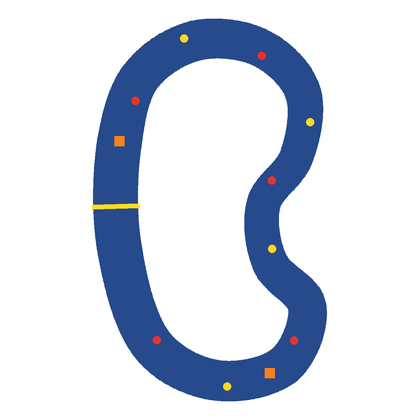
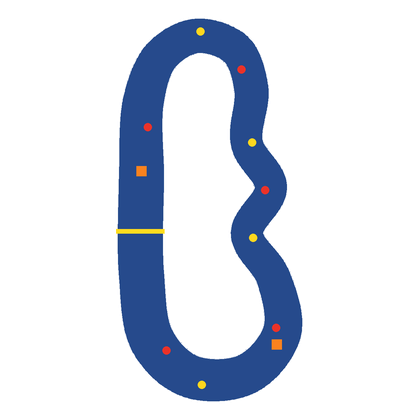
Give Ebb Reef its own outline (#2)
A long straight, a hairpin at the north end and an S-bend through the reef, so it
no longer shares Whitecap Point's bean shape. Ramp 2, buoy 7 and a hidden rock
moved apart so riders don't land from the jump onto them.

diff --git a/NOTES.md b/NOTES.md
@@ -698,11 +698,13 @@ line for tests.
 | Gull Cove | calm | 636 m | `cove_calm.tres`: the cove swell at half height (troughs to about −0.7 m). The first course, for learning the buoys. |
 | Whitecap Point | choppy open sea | 908 m | `whitecap_chop.tres`: `open_sea` with a lower main swell (0.62 m) and stronger chop (0.19, 0.13, 0.07 m). The craft hops off the chop on every straight. Long start straight with a ramp, a sweeping top, a chicane past a rock, a long bottom sweep. |
 | Lantern Harbor | night, harbour lights | 1021 m | `night_environment.tres` (dark sky with stars, a moon disc, colour ambient light, glow), a dim blue moon low in the sky so its glitter shows the swells, `harbor_swell.tres` (cove swell at 55%). Piers with lamps and lit buildings along the north shore, a breakwater with red and green entrance lights, lit buoys (`Buoy.lamp_energy`) and darker water (`OceanSurface.shader_overrides`). The course leaves through the breakwater gap and comes back round its east end. |
-| Ebb Reef | the tide goes out each lap | 852 m | `Course.lap_levels` 0, −0.9, −1.8 m: when the leader starts lap 2 and 3 the rest level falls at 0.15 m/s and the HUD calls THE TIDE IS GOING OUT. Reef flats break the surface, four rocks hidden 0.6 m under the water on lap 1 stand up to 1.2 m above it on lap 3 (the computer riders' line avoids them from the start), and the ramps' lips rise from 1.8 m to 3.6 m above the water, so the jumps grow. The ramps start 4.2 m under the high-tide level (19 m long, same 17.6° slope): with the default 2 m, a trough at low tide exposed the ramp's front edge and riders hit it head-on. Walls stay 4.3 m deep at high tide (2.5 m at low tide). |
+| Ebb Reef | the tide goes out each lap | 776 m | `Course.lap_levels` 0, −0.9, −1.8 m: when the leader starts lap 2 and 3 the rest level falls at 0.15 m/s and the HUD calls THE TIDE IS GOING OUT. Reef flats break the surface, four rocks hidden 0.6 m under the water on lap 1 stand up to 1.2 m above it on lap 3 (the computer riders' line avoids them from the start), and the ramps' lips rise from 1.8 m to 3.6 m above the water, so the jumps grow. The ramps start 4.2 m under the high-tide level (19 m long, same 17.6° slope): with the default 2 m, a trough at low tide exposed the ramp's front edge and riders hit it head-on. Walls stay 4.3 m deep at high tide (2.5 m at low tide). |
 
 Computer races (four riders, 3 laps): Whitecap Point 58–60 s laps, 0–1 misses each, no crashes;
 Lantern Harbor about 60 s laps, Koa about 10 s ahead of the rest (top speed and skill on long
-straights), 0–1 misses, no crashes; Ebb Reef 50–59 s laps, 0–2 misses, no crashes.
+straights), 0–1 misses, no crashes; Ebb Reef (an elongated B: a long straight, a hairpin at the
+north end, an S through the reef) about 50 s laps, the field within 6 s, 0–2 misses, one failed
+barrel roll by Koa in two races.
 
 **Water level and other systems.** `Ocean.level` is set by each course at load (and reset to 0
 by every `OceanSurface`, since the autoload outlives scenes). Buoys, wall floats, rings, the
